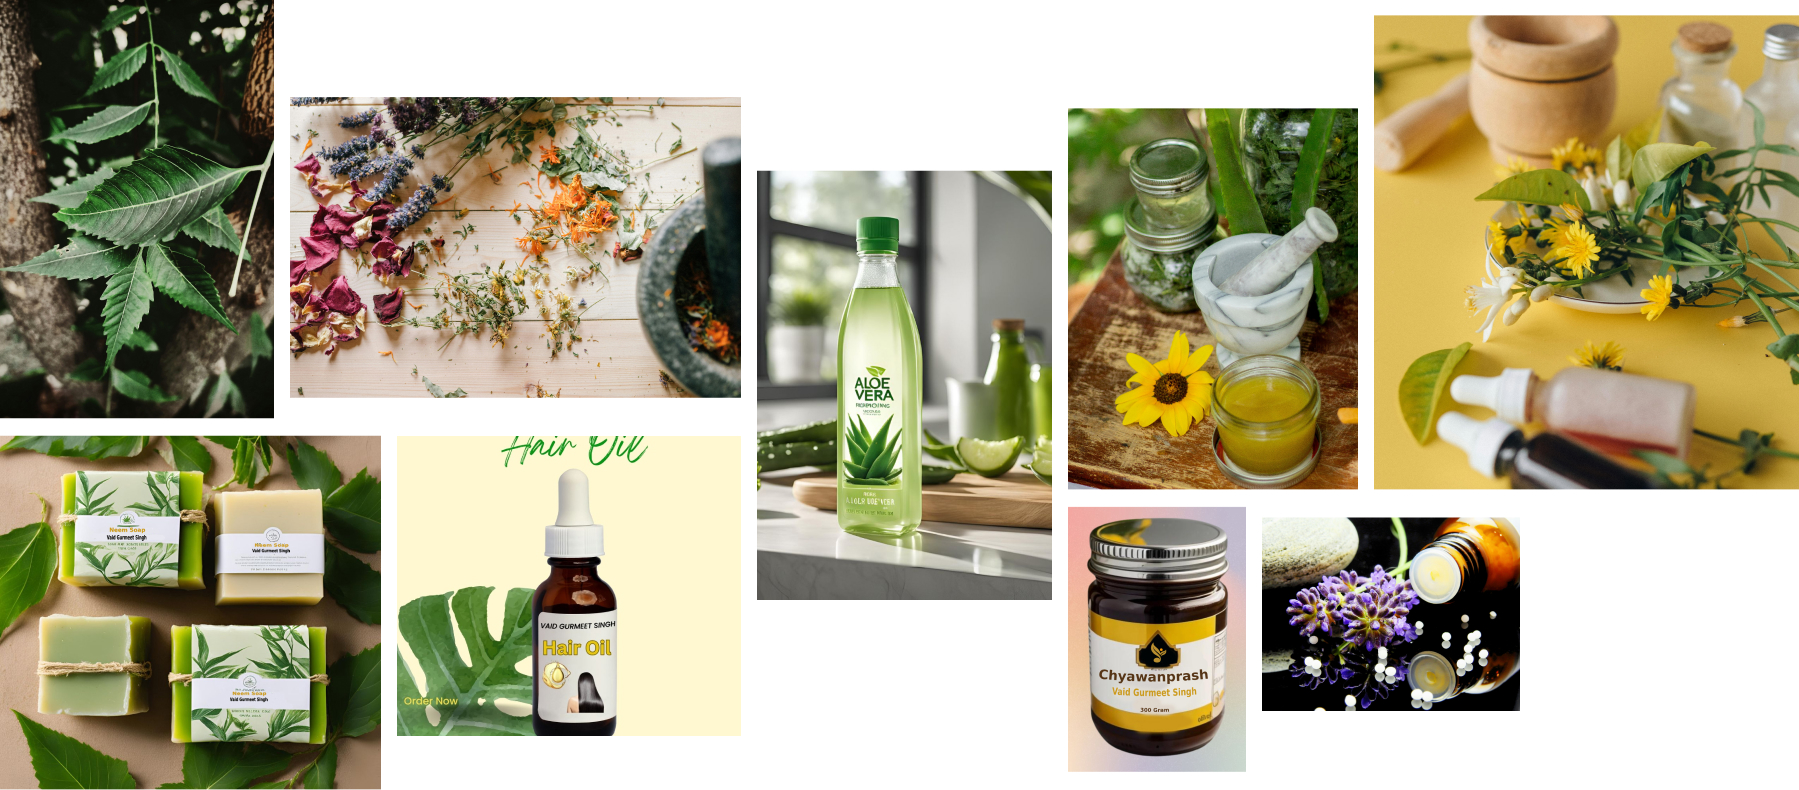
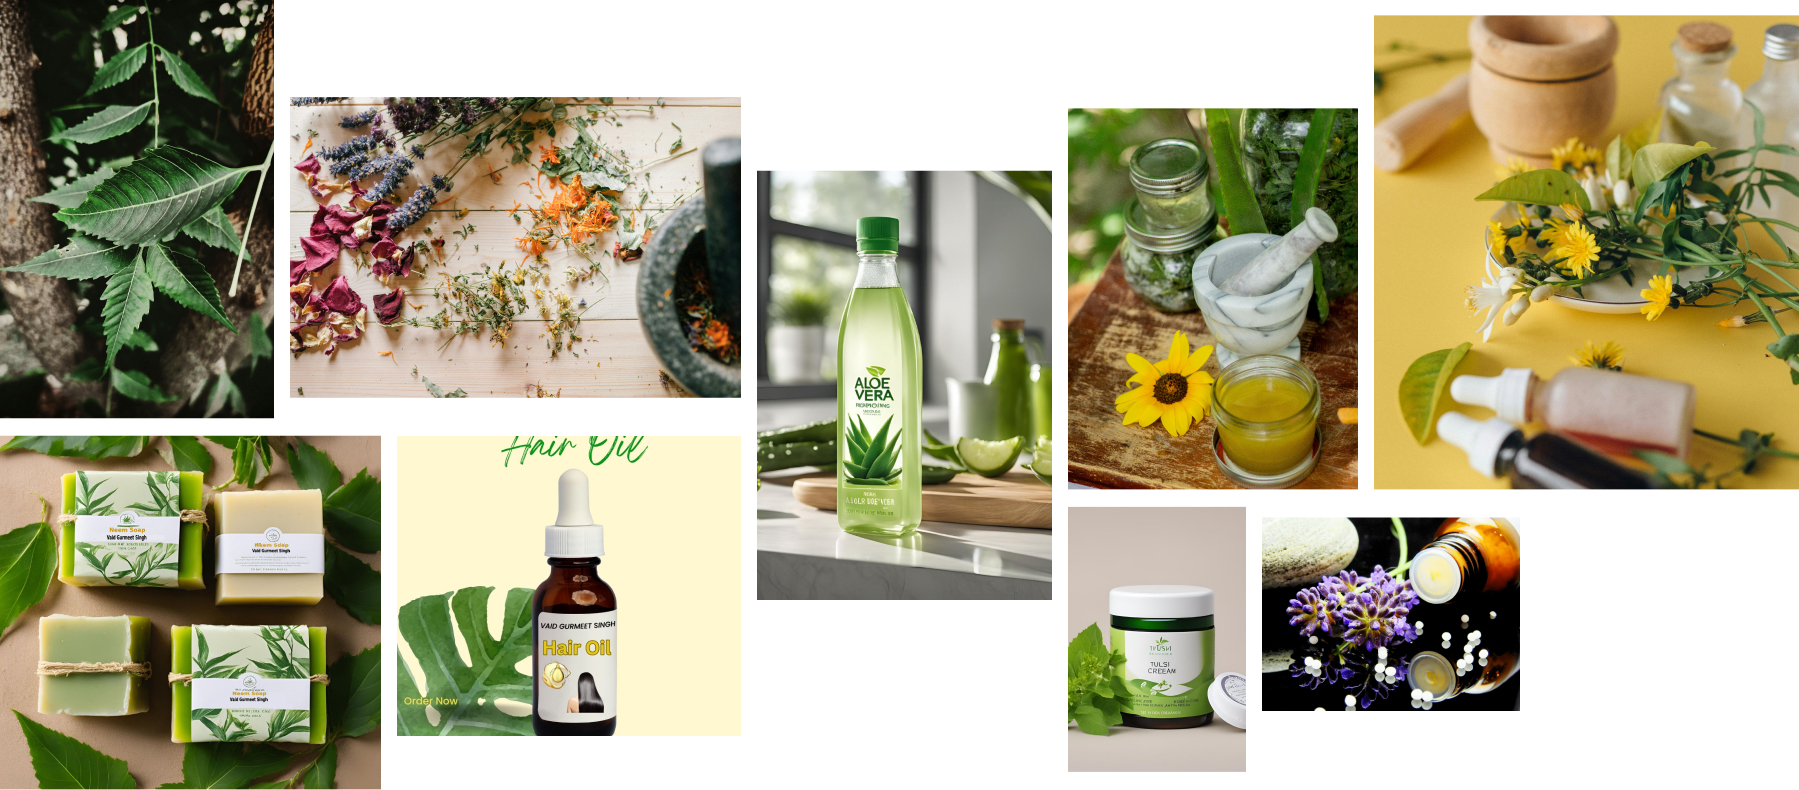
Fake Update In Polices

Changed region(s): [[0.5914, 0.638, 0.716, 0.9722]]

diff --git a/src/app/(policies)/refund-policy/page.tsx b/src/app/(policies)/refund-policy/page.tsx
@@ -33,29 +33,19 @@ const RefundPolicyPage = () => {
             <li>The product must be accompanied by the original receipt, invoice, or proof of purchase.</li>
           </ul>
         </div>
-        <h3 className="text-xl font-semibold mb-2">2.2. Non-Refundable Items:</h3>
-        <div className="text-lg mb-4">
-          Certain products and services are non-refundable, including but not limited to:
-          <ul className="list-disc list-inside">
-            <li>Customized or personalized products: Any product that has been custom-made or personalized to your specifications is non-refundable.</li>
-            <li>Perishable goods: Ayurvedic food items, supplements, or products with an expiration date.</li>
-            <li>Digital products: E-books, online courses, or any digital content that has been delivered and accessed.</li>
-            <li>Gift cards and vouchers.</li>
-            <li>Products purchased during special promotions, discounted sales, or with the use of coupon codes.</li>
-          </ul>
-        </div>
-        <h3 className="text-xl font-semibold mb-2">2.3. Damaged or Defective Products:</h3>
+        
+        <h3 className="text-xl font-semibold mb-2">2.2. Damaged or Defective Products:</h3>
         <p className="text-lg mb-4">
           If you receive a damaged or defective product, you are entitled to a full refund or exchange. Please initiate your request within 3 days of receiving the item. A refund or exchange will only be processed after verification of the defect or damage.
         </p>
-        <h3 className="text-xl font-semibold mb-2">2.4. Services:</h3>
+        <h3 className="text-xl font-semibold mb-2">2.3. Services:</h3>
         <p className="text-lg mb-4">
           Refunds for services such as Ayurvedic consultations, healing sessions, and therapies are available only if the service has not been fully rendered and only within 48 hours before the scheduled session. Once the service has been provided, it is non-refundable.
         </p>
         <h2 className="text-2xl font-bold text-gold mb-2">3. Refund Process</h2>
         <h3 className="text-xl font-semibold mb-2">3.1. How to Initiate a Refund:</h3>
         <div className="text-lg mb-4">
-          To request a refund, please contact our Customer Support Team at [insert email address/contact number]. Include the following details:
+          To request a refund, please contact our Customer Support Team at {process.env.MAIL}. Include the following details:
           <ul className="list-disc list-inside">
             <li>Order Number.</li>
             <li>Reason for Refund Request.</li>
@@ -84,19 +74,13 @@ const RefundPolicyPage = () => {
         <p className="text-lg mb-4">
           If you received a product that is damaged, defective, or incorrect, you may request an exchange for the same product or an alternative product of equal value. Please notify us within 3 days of receiving the item. The replacement product will be shipped to you free of charge once the returned product has been inspected.
         </p>
-        <h3 className="text-xl font-semibold mb-2">4.2. Non-Exchangeable Items:</h3>
-        <p className="text-lg mb-4">
-          Customized, personalized, or perishable products cannot be exchanged.
-        </p>
+   
         <h2 className="text-2xl font-bold text-gold mb-2">5. Cancellations</h2>
         <h3 className="text-xl font-semibold mb-2">5.1. Product Order Cancellations:</h3>
         <p className="text-lg mb-4">
           You may cancel an order for a physical product within 24 hours of placing the order. Once the product has been shipped, cancellations are no longer allowed, and you must follow the standard return and refund process.
         </p>
-        <h3 className="text-xl font-semibold mb-2">5.2. Service Cancellations:</h3>
-        <p className="text-lg mb-4">
-          Cancellations for services such as Ayurvedic consultations, therapy sessions, or any wellness services must be made at least 48 hours before the scheduled appointment. Failure to cancel within this time frame will result in no refund.
-        </p>
+     
         <h2 className="text-2xl font-bold text-gold mb-2">6. Late or Missing Refunds</h2>
         <h3 className="text-xl font-semibold mb-2">6.1. Delayed Refunds:</h3>
         <p className="text-lg mb-4">
@@ -109,8 +93,8 @@ const RefundPolicyPage = () => {
          returned item.
          </p> 
          <h3 className="text-xl font-semibold mb-2">7.2. Free Returns for Damaged or Incorrect Items:</h3>
-          <p className="text-lg mb-4"> If the product you received was damaged, defective, or incorrect due to our error, we will cover the return shipping costs. Please contact us to arrange for the return, and we will provide you with a prepaid shipping label. </p> 
-
+          <p className="text-lg mb-2"> If the product you received was damaged, defective, or incorrect due to our error, we will cover the return shipping costs. Please contact us to arrange for the return, and we will provide you with a prepaid shipping label. </p> 
+          <p className="text-lg mb-4">We will inititiate the return with in 2 to 3 working days.</p>
         <h2 className="text-2xl font-bold text-gold mb-2">8. International Orders</h2>
         <p className="text-lg mb-4">
           For international orders, the customer is responsible for all customs duties, taxes, and return shipping costs. Gurukirpa Ayurveda is not liable for international shipping delays, customs clearance, or other unforeseen international shipping issues.

diff --git a/src/products/data.ts b/src/products/data.ts
@@ -49,16 +49,28 @@ export const products : Product[] = [
    //    category: "health",
    //    quantity : 1
    // },
+   // {
+   //    id: "10",
+   //    name: "Chyawanprash",
+   //    price: 1500,
+   //    image: "/product/Chyawanprash-1x1.jpg",
+   //    subImages: ["/product/shilajit-gold-resin.jpg", "/product/shilajit-gold-resin.jpg", "/product/shilajit-gold-resin.jpg", "/product/shilajit-gold-resin.jpg"],
+   //    description: "Chyawanprash is a traditional herbal jam, packed with nutrients that enhance immunity, promote vitality, and support overall health.",
+   //    discount: "15%",
+   //    rating: 4.9,
+   //    category: "health",
+   //    quantity : 1
+   // },
    {
       id: "10",
-      name: "Chyawanprash",
-      price: 1500,
-      image: "/product/Chyawanprash-1x1.jpg",
+      name: "Tulsi Acne Cream",
+      price: 700,
+      image: "/product/tulsi-acne-cream-1x1.jpg",
       subImages: ["/product/shilajit-gold-resin.jpg", "/product/shilajit-gold-resin.jpg", "/product/shilajit-gold-resin.jpg", "/product/shilajit-gold-resin.jpg"],
-      description: "Chyawanprash is a traditional herbal jam, packed with nutrients that enhance immunity, promote vitality, and support overall health.",
+      description: "Natural acne treatment that soothes, heals, and clears skin using the power of tulsi herb.",
       discount: "15%",
       rating: 4.9,
-      category: "health",
+      category: "Skin care",
       quantity : 1
    },
    {
@@ -70,7 +82,7 @@ export const products : Product[] = [
       description: "Pure Aloe Vera Gel: Hydrates, soothes, and rejuvenates skin. Ideal for all skin types. Lightweight, non-greasy formula for everyday use.",
       discount: "15%",
       rating: 4.9,
-      category: "health",
+      category: "Skin care",
       quantity : 1
    },
    {
@@ -82,7 +94,7 @@ export const products : Product[] = [
       description: " Natural antibacterial cleanser that purifies and nourishes skin. Fights acne and soothes irritation for a healthy glow.",
       discount: "10%",
       rating: 4.9,
-      category: "health",
+      category: "Skin care",
       quantity : 1
    },
    {

diff --git a/src/app/(policies)/terms-and-condition/page.tsx b/src/app/(policies)/terms-and-condition/page.tsx
@@ -19,7 +19,7 @@ const TermsAndConditionsPage = () => {
 
         <h2 className="text-2xl font-bold text-gold mb-2">3. Services and Products</h2>
         <p className="text-lg mb-4">
-          Gurukirpa Ayurveda offers Ayurvedic products, consultations, and holistic healing services. Our products and services are intended for general well-being and do not claim to cure, treat, or diagnose any diseases or health conditions. Please consult a healthcare professional before starting any new health regimen.
+          Gurukirpa Ayurveda offers health products, consultations, and holistic healing services. Our products and services are intended for general well-being and do not claim to cure, treat, or diagnose any diseases or health conditions. Please consult a healthcare professional before starting any new health regimen.
         </p>
 
         <h2 className="text-2xl font-bold text-gold mb-2">4. Use of Website</h2>
@@ -53,7 +53,7 @@ const TermsAndConditionsPage = () => {
 
         <h2 className="text-2xl font-bold text-gold mb-2">6. Consultations</h2>
         <p className="text-lg mb-4">
-          Gurukirpa Ayurveda offers Ayurvedic consultations, which are for informational purposes only and should not be considered a substitute for professional medical advice. You are advised to consult your healthcare provider before making decisions based on these consultations.
+          Gurukirpa Ayurveda offers Health consultations, which are for informational purposes only and should not be considered a substitute for professional medical advice. You are advised to consult your healthcare provider before making decisions based on these consultations.
         </p>
 
         <h2 className="text-2xl font-bold text-gold mb-2">7. Return and Refund Policy</h2>

diff --git a/src/app/page.tsx b/src/app/page.tsx
@@ -39,7 +39,7 @@ export default async function Home() {
                zIndex: -1
             }}
          />
-            <h1 className="text-base md:text-7xl font-bold text-white absolute left-[10%] md:left-[10%] top-[20%] leading-snug">Natural Wellness <br/> With Ayurveda</h1>
+            <h1 className="text-base md:text-7xl font-bold text-white absolute left-[10%] md:left-[10%] top-[20%] leading-snug">Natural Wellness <br/> With Remedies</h1>
             <Link href="#" className="border-2 border-goldLight bg-gold hover:bg-goldLight md:py-2 px-4 md:px-16 absolute top-40 md:top-[60%] left-10 md:left-[10%] hover:text-gold hover:bg-opacity-70 transition-all duration-300 rounded-sm text-white font-semibold">Buy Now</Link>
       </section>
 
